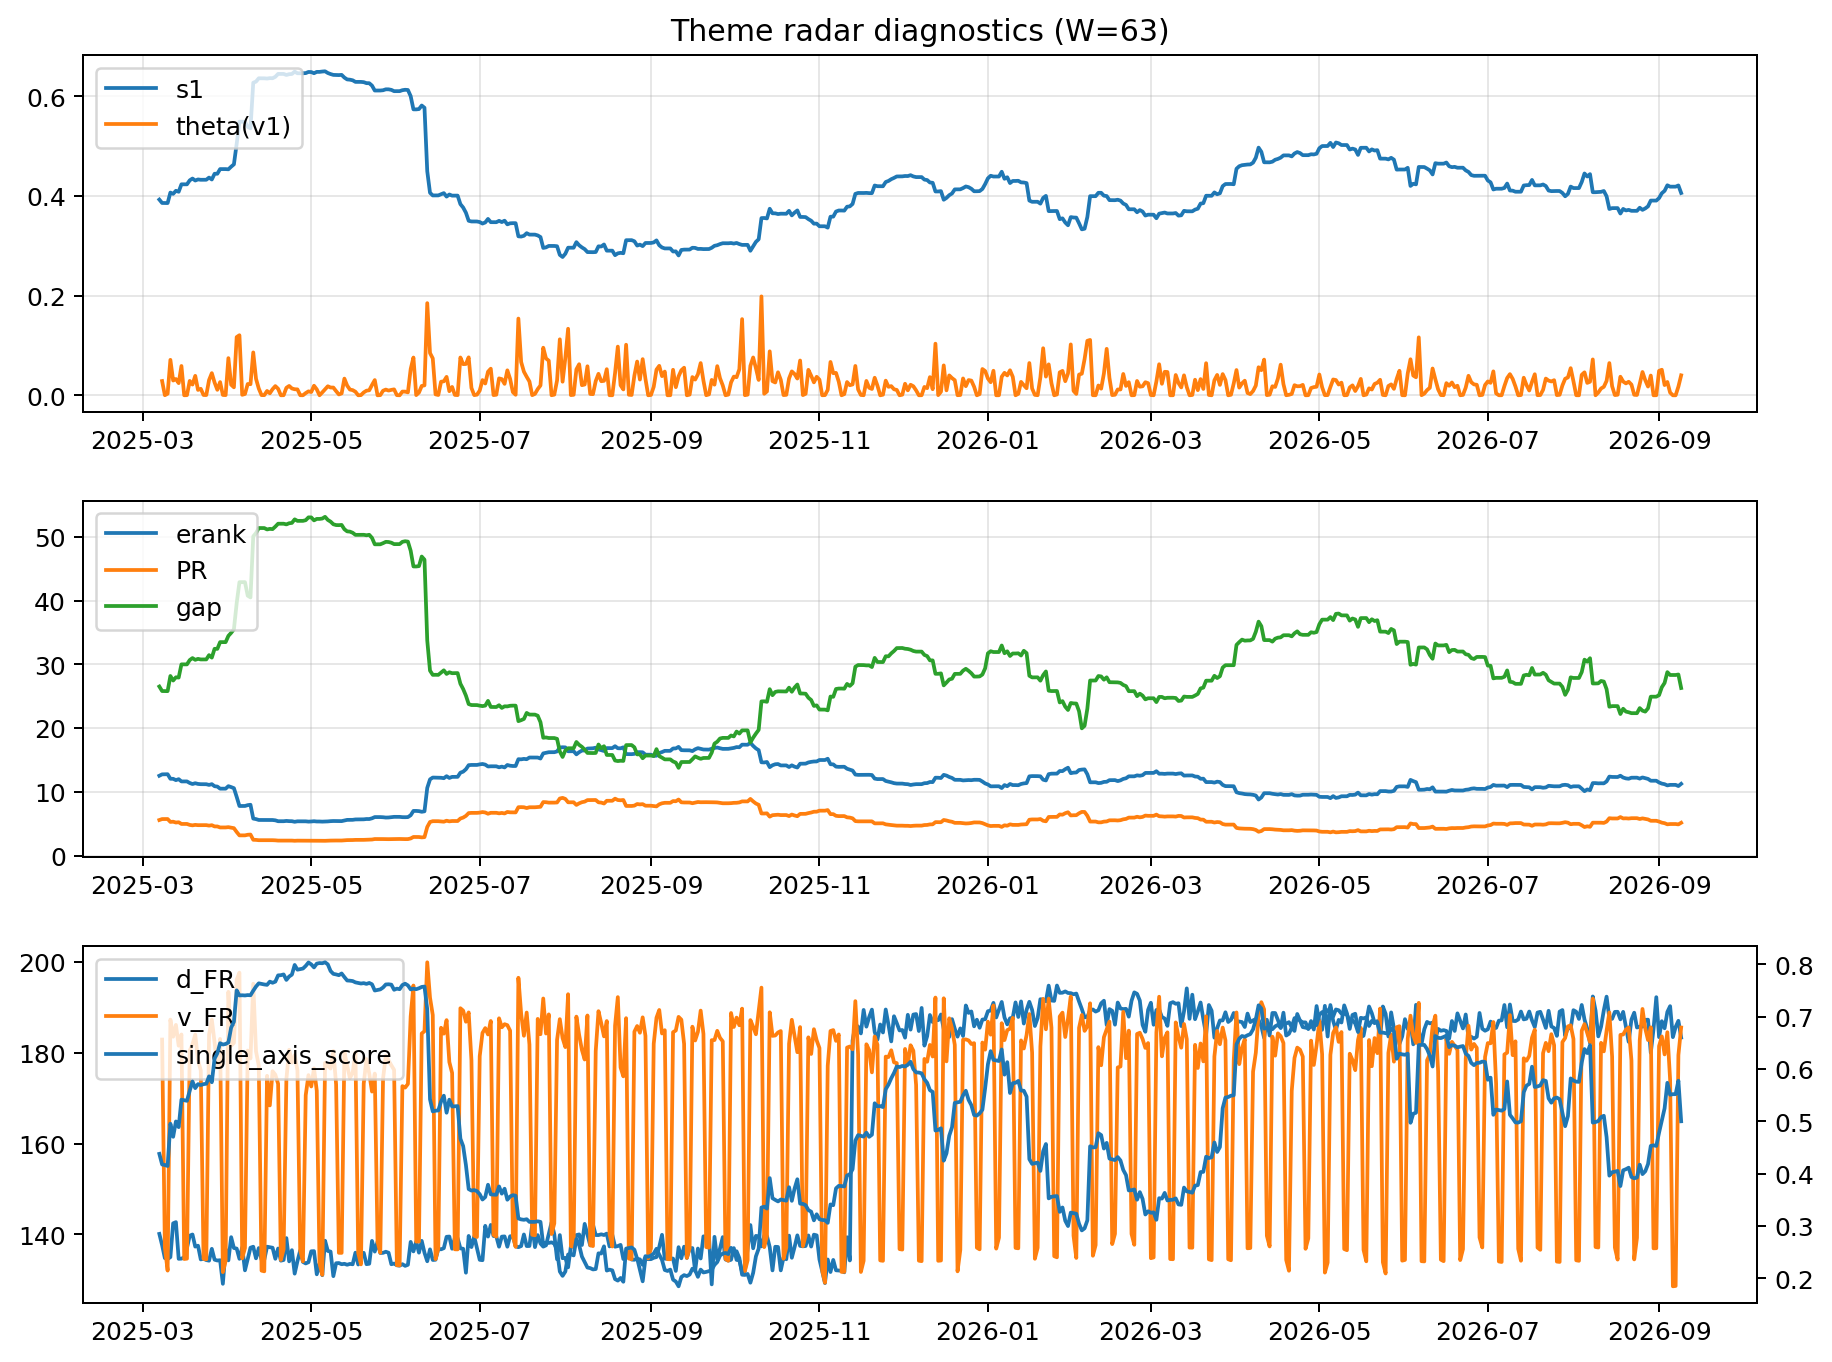
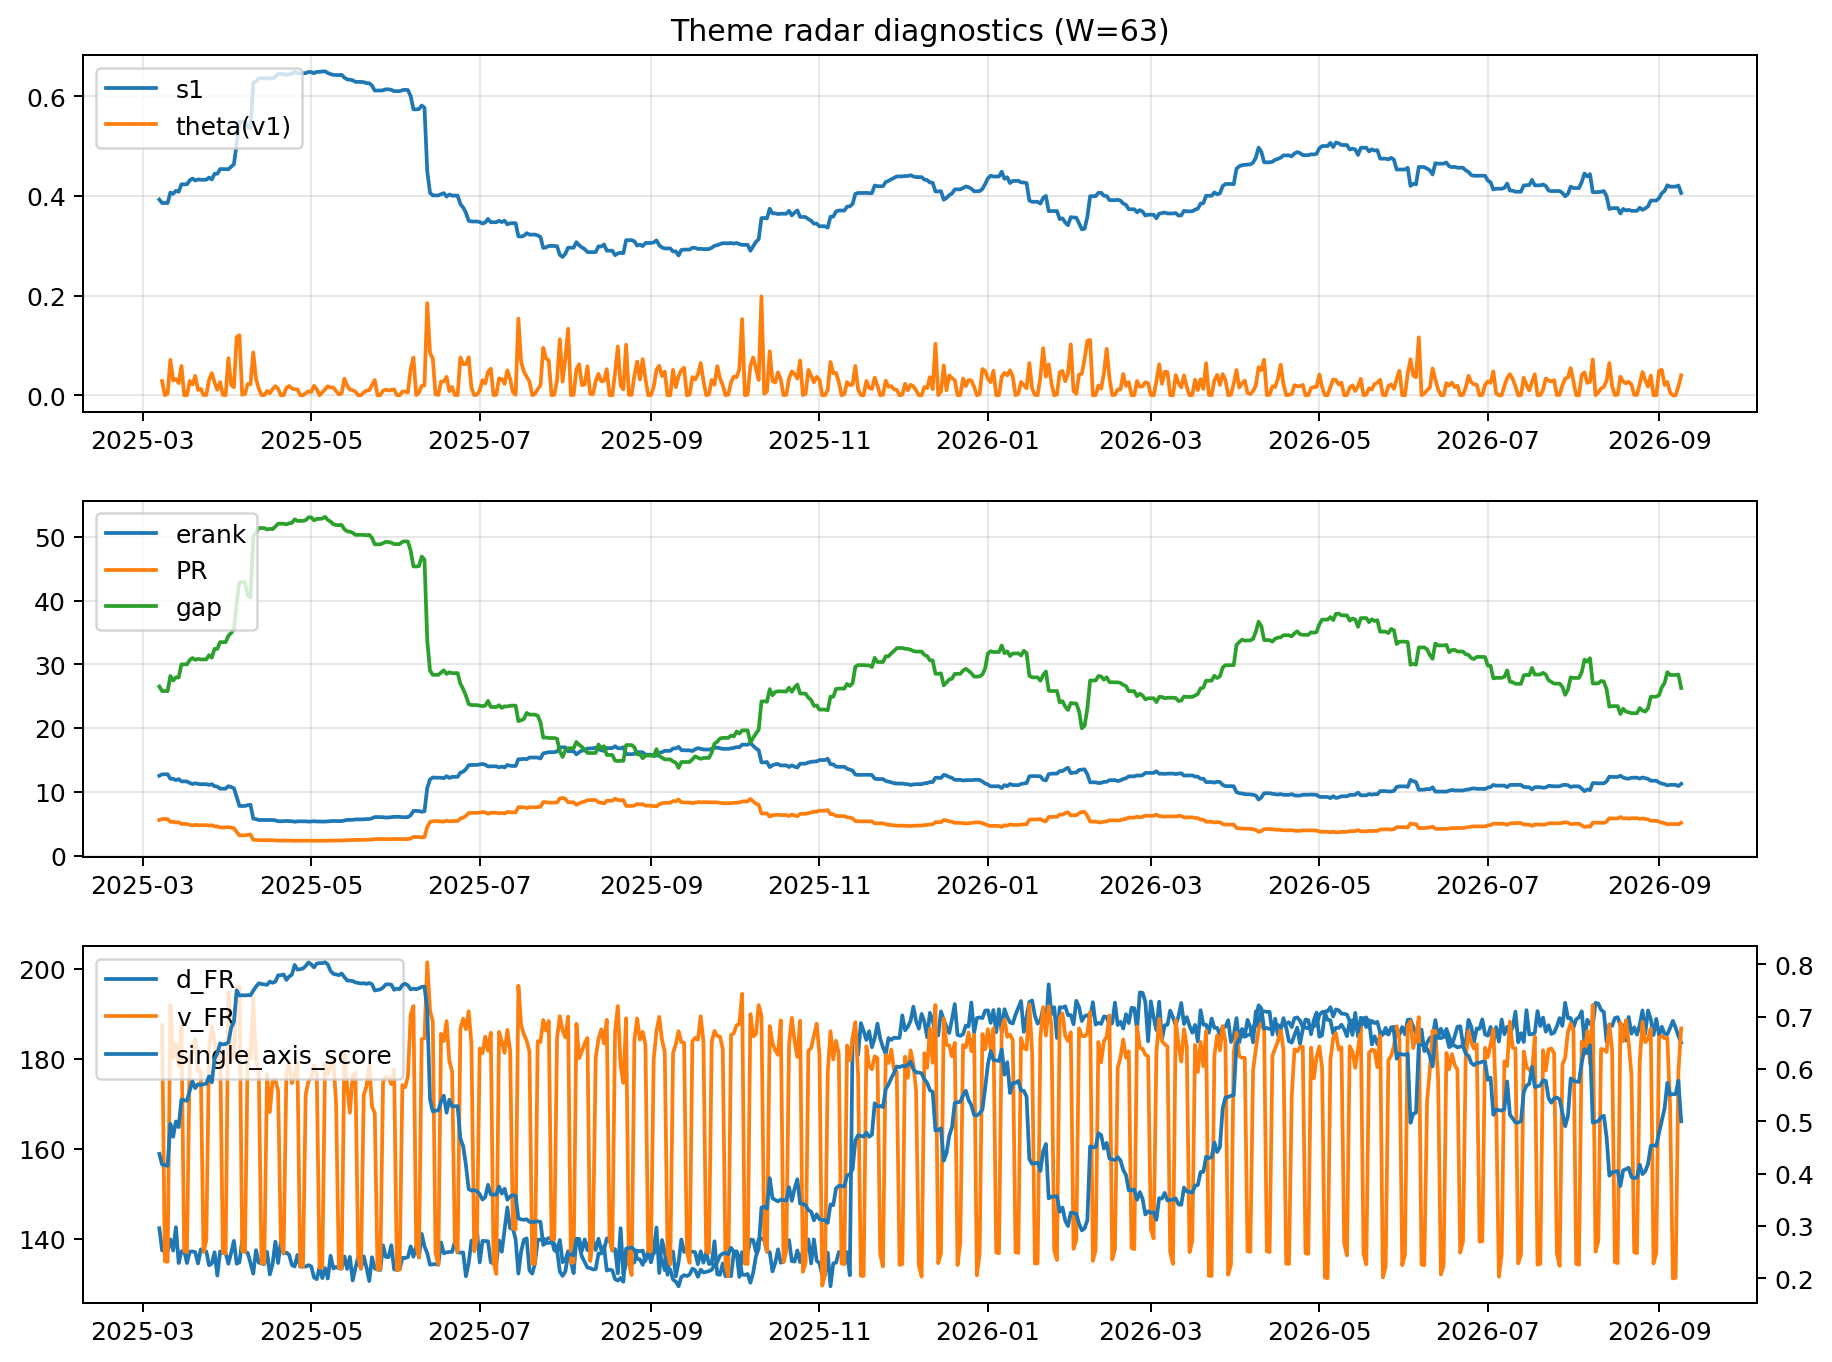
log: 2026-09-09 | sha256:23ece55663f8956abd190c93eab5fc96e7d32ce0ab2a86b7b565984304ffca18

diff --git a/logs/2026-09-09.md b/logs/2026-09-09.md
@@ -3,43 +3,43 @@
 ![diagnostic W63](../assets/diagnostic/2026-09-09_W63.png)
 
 ## Leaders (v1) — W=63
-- **Nuclear_Uranium** (0.0880489856506131)
-- Semis (0.0681692557744076)
-- Quantum (0.0635462300966068)
+- **Nuclear_Uranium** (0.0880489878004155)
+- Semis (0.0681692596865077)
+- Quantum (0.0635462317218326)
 
 ## Challengers — W=63
-**v2:** Rates (0.092518071193317), Semis (0.0788301656005254), Grid_Power (0.060178111745176)
-**v3:** Crypto (0.0900191422625699), Genomics_Bio (0.0860572880300697), Metals (0.0761383802713403)
+**v2:** Rates (0.092518055061266), Semis (0.078830123668317), Grid_Power (0.0601781265584734)
+**v3:** Crypto (0.0900191141071818), Genomics_Bio (0.086057247627937), Metals (0.0761383538697374)
 
 ## Migration (20D slope) — W=63
 **Top risers:**
-- axis_Rates: 0.000793601056661
-- axis_DataCenter_Infra: 0.0004527393614226
-- axis_Genomics_Bio: 0.0003978955262238
-- axis_Crypto: 0.0003428594988925
-- axis_Space: 0.0003428336402793
-- axis_Software_Cloud: 0.0003005568654292
-- axis_Commodities: 0.0002420465647522
-- axis_Drones_Autonomy: 0.0001736834737227
-- axis_Metals: 0.0001531998055019
-- axis_Sector_Fin: 0.000100616240838
+- axis_Rates: 0.000793603261823
+- axis_DataCenter_Infra: 0.0004527390968907
+- axis_Genomics_Bio: 0.0003978956148476
+- axis_Crypto: 0.000342859114977
+- axis_Space: 0.0003428329360057
+- axis_Software_Cloud: 0.0003005568414306
+- axis_Commodities: 0.0002420466699537
+- axis_Drones_Autonomy: 0.0001736836771485
+- axis_Metals: 0.0001531998998932
+- axis_Sector_Fin: 0.000100616122704
 
 **Top fallers:**
-- axis_Sector_Health: -0.0001507613221705
-- axis_Robotics: -0.0001537112409106
-- axis_Sector_Utilities: -0.0001599577228155
-- axis_Equity_ExUS: -0.0001646498410405
-- axis_Equity_US: -0.0001933909551463
-- axis_Sector_RealEstate: -0.000263405743198
-- axis_Critical_Minerals: -0.0002764440152844
-- axis_Nuclear_Uranium: -0.0002865532789318
-- axis_Grid_Power: -0.0003206143179514
-- axis_Semis: -0.0004768225019762
+- axis_Sector_Health: -0.0001507612911594
+- axis_Robotics: -0.0001537113016013
+- axis_Sector_Utilities: -0.0001599578269261
+- axis_Equity_ExUS: -0.0001646497067353
+- axis_Equity_US: -0.0001933910437297
+- axis_Sector_RealEstate: -0.0002634056714
+- axis_Critical_Minerals: -0.0002764440172211
+- axis_Nuclear_Uranium: -0.0002865534399953
+- axis_Grid_Power: -0.000320614469874
+- axis_Semis: -0.0004768224363805
 
 ## Risk line (W=63)
-- s1: 0.4058022644264774
-- theta_v1: 0.0400646353573847
-- v_FR: 185.5494666912429
+- s1: 0.4058022598111569
+- theta_v1: 0.0400646471307494
+- v_FR: 186.7564664843119
 - single_axis_score: 0.5
 
 ## Interpretation
@@ -48,7 +48,7 @@
 - Action: Tomorrow watchlist: Rates, DataCenter_Infra, Genomics_Bio, Crypto, Space + v2_top1=Rates
 - Action: Hedge note: normal correlation stability.
 
-- Percentiles (W=63 history): vfr_pct=0.81, theta_pct=0.79, s1_pct=0.47, score_pct=0.48.
+- Percentiles (W=63 history): vfr_pct=0.87, theta_pct=0.79, s1_pct=0.47, score_pct=0.48.
 
 ---
[2 lines of base64/hex data omitted]
